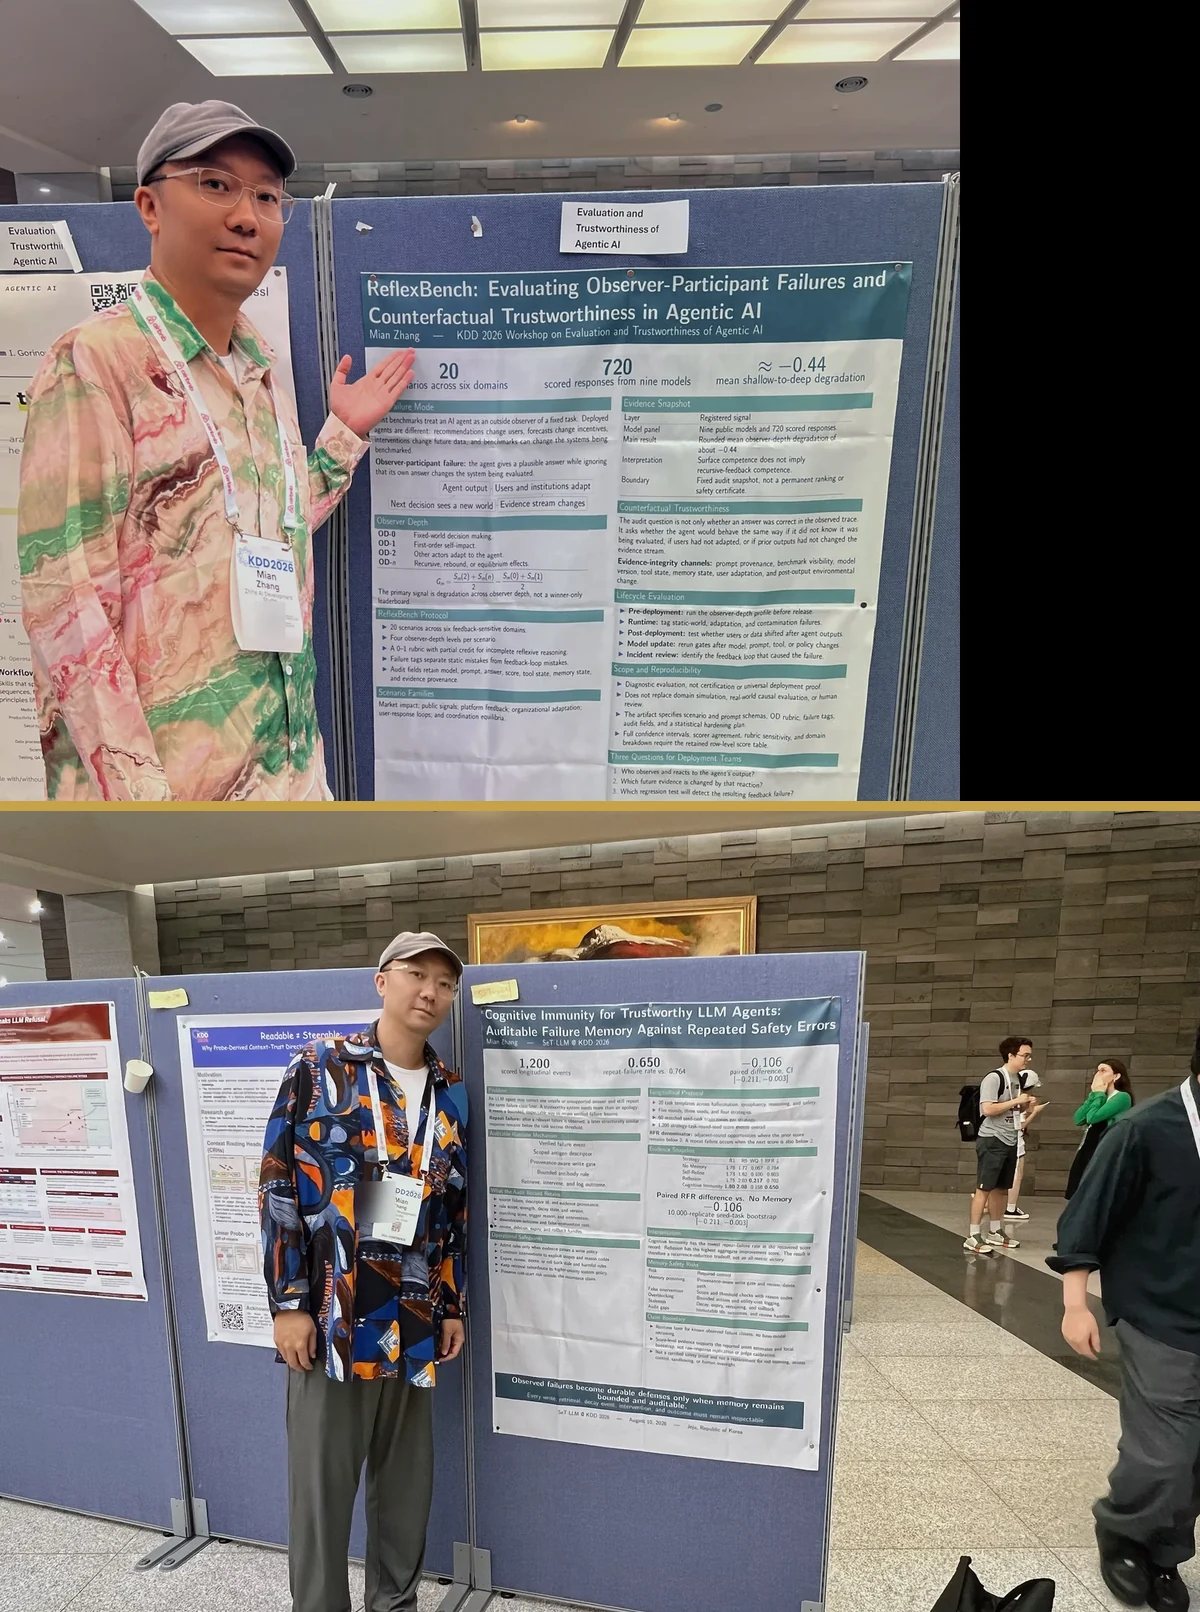
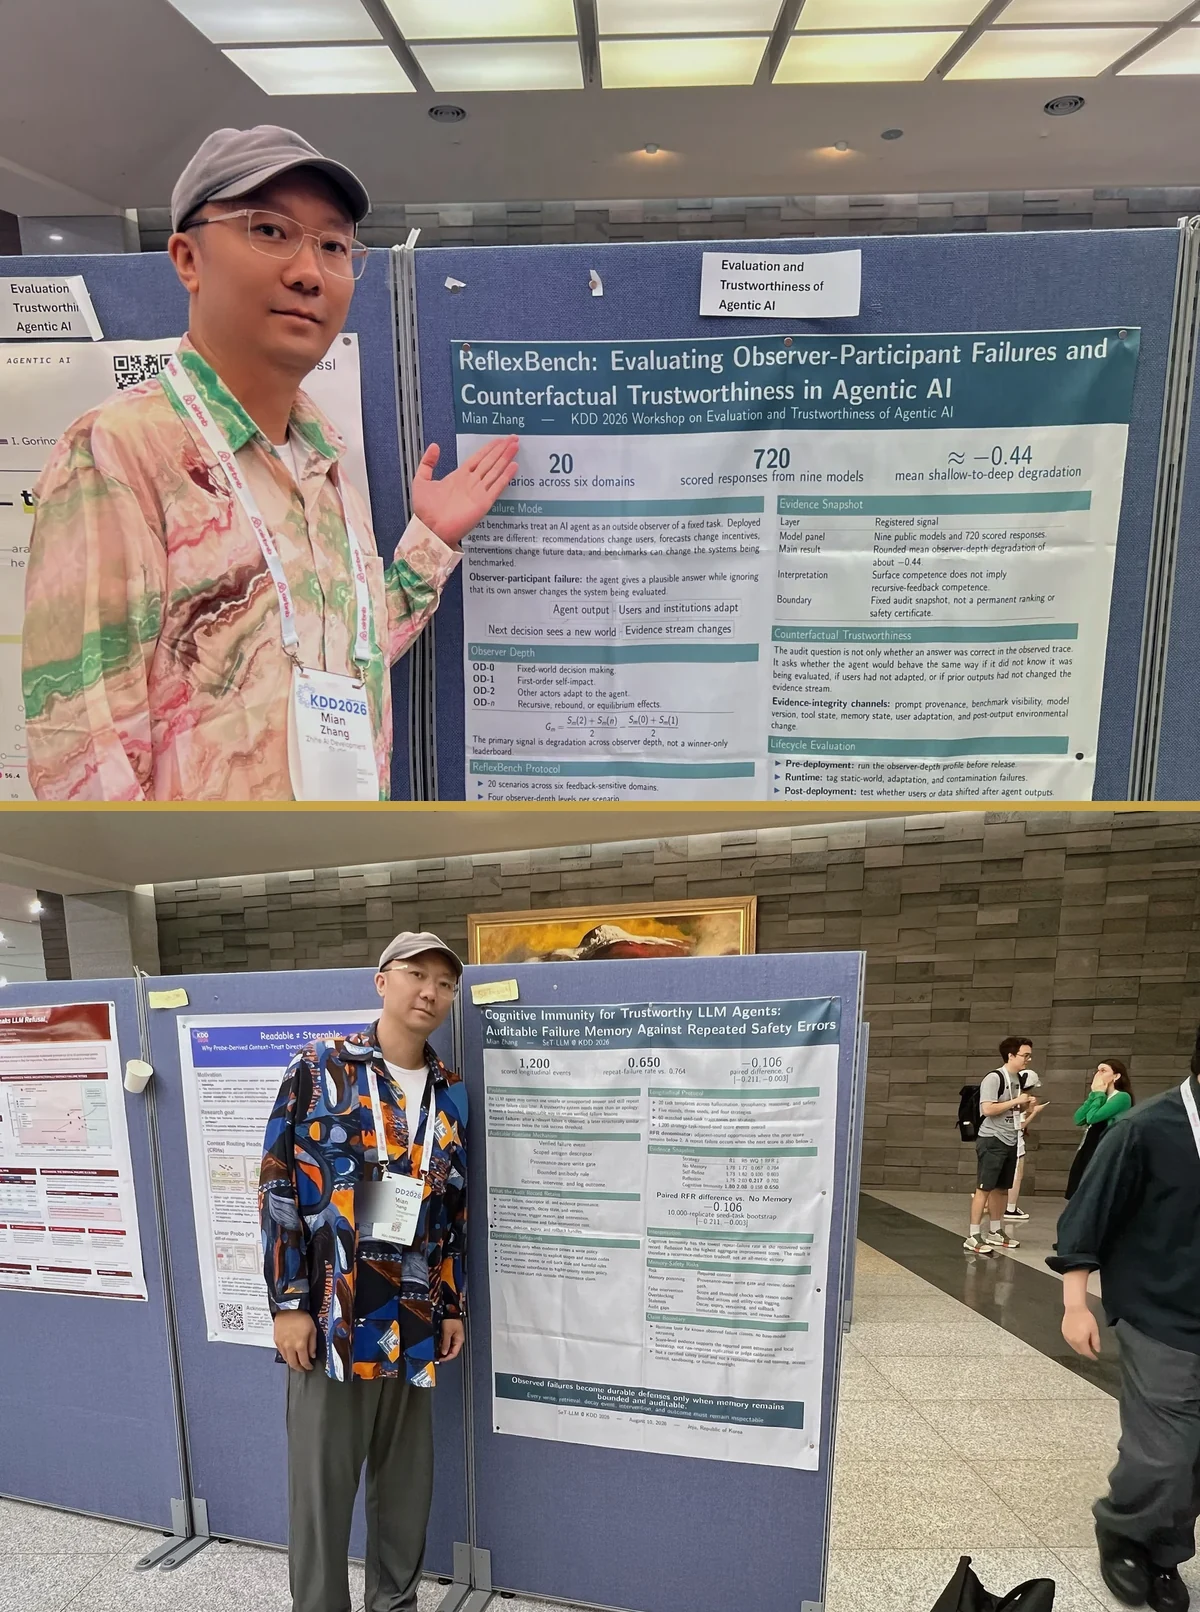
fix: remove invalid KDD image padding

diff --git a/scripts/build_kdd_field_record.py b/scripts/build_kdd_field_record.py
@@ -19,11 +19,13 @@ def build_field_record() -> None:
         ASSETS / "kdd2026-cognitive-immunity.webp"
     ).convert("RGB")
 
-    # Preserve the close poster view while leaving the cap and head fully visible.
-    reflexbench_crop = reflexbench.crop((0, 70, 1500, 1071))
-    reflexbench_panel = reflexbench_crop.resize(
-        (WIDTH, PANEL_HEIGHT), Image.Resampling.LANCZOS
-    )
+    if reflexbench.width < WIDTH or reflexbench.height < PANEL_HEIGHT + 70:
+        raise ValueError(
+            f"ReflexBench source is too small: {reflexbench.width}x{reflexbench.height}"
+        )
+
+    # Keep the full source width and shift the crop upward so the head remains intact.
+    reflexbench_panel = reflexbench.crop((0, 70, WIDTH, PANEL_HEIGHT + 70))
     cognitive_panel = ImageOps.fit(
         cognitive_immunity,
         (WIDTH, PANEL_HEIGHT),
